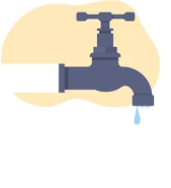
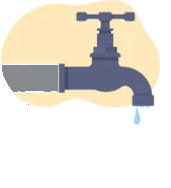
Correcciones graficas

Changed region(s): [[0.0, 0.3457, 0.3509, 0.5053]]

diff --git a/static/tank_animation4.js b/static/tank_animation4.js
@@ -21,7 +21,27 @@ document.addEventListener('DOMContentLoaded', function() {
                 if (item.id === "img3") item.visible = "1";
                 if (item.id === "img4") item.visible = "0";
             });
+            items = currentData.annotations.groups.find(g => g.id === "upperimageGroup").items;
+            items.forEach(item => {
+                if (item.id === "img1") item.visible = "1";
+                if (item.id === "img2") item.visible = "0";
+                if (item.id === "img3") item.visible = "1";
+                if (item.id === "img4") item.visible = "0";
+            });
+
             chartObj.setJSONData(currentData);
+        }       
+        else if (event.data.type === "Overload") {
+            items = currentData.annotations.groups.find(g => g.id === "upperimageGroup").items;
+            items.forEach(item => {
+                if (item.id === "img5") item.visible = "1";
+            });
+        }
+        else if (event.data.type === "OverloadOFF") {
+            items = currentData.annotations.groups.find(g => g.id === "upperimageGroup").items;
+            items.forEach(item => {
+                if (item.id === "img5") item.visible = "0";
+            });
         }
       });
     
@@ -71,38 +91,12 @@ document.addEventListener('DOMContentLoaded', function() {
                         origw: "350",
                         origh: "500", // Actualizado para coincidir con el nuevo alto
                         autoscale: "1",
-                        showBelow: "1", // Las anotaciones no están limitadas por el borde superior
                         constrainedScale: "0", // Permite que las anotaciones excedan los límites del gráfico
                         groups: [
                             {
                                 id: "imageGroup",
+                                showBelow: "1",
                                 items: [
-                                    {
-                                        name: "img1",
-                                        id: "img1",
-                                        type: "image",
-                                        url: "canillaON.png",
-                                        x: "0",
-                                        y: "0", 
-                                        xScale: "55",
-                                        yScale: "60",
-                                        zIndex: "5", // Valor bajo para colocarlo debajo de otros elementos
-                                        allowOverflow: "1", // Permite que la imagen se desborde
-                                        visible: "0" // 0 para ocultar, 1 para mostrar inicialmente
-                                    },
-                                    {
-                                        name: "img2",
-                                        id: "img2",
-                                        type: "image",
-                                        url: "canillaOFF.png",
-                                        x: "0",
-                                        y: "0",
-                                        xScale: "55",
-                                        yScale: "60",
-                                        zIndex: "5",
-                                        allowOverflow: "1",
-                                        visible: "1" // 0 para ocultar, 1 para mostrar inicialmente
-                                    },
                                     {
                                         id: "img3",
                                         type: "image",
@@ -139,10 +133,53 @@ document.addEventListener('DOMContentLoaded', function() {
                                         alpha: "100",
                                         dashed: "1",
                                         dashLen: "4",
-                                        dashGap: "2",
-                                        showBelow: "0"
+                                        dashGap: "2"
                                     }
                                 ]
+                            },
+                            {
+                                id: "upperimageGroup",
+                                showBelow: "0",
+                                allowOverflow: "1",
+                                items: [
+                                    {
+                                        name: "img1",
+                                        id: "img1",
+                                        type: "image",
+                                        url: "canillaON.png",
+                                        x: "0",
+                                        y: "0", 
+                                        xScale: "55",
+                                        yScale: "60",
+                                        zIndex: "5", // Valor bajo para colocarlo debajo de otros elementos
+                                        allowOverflow: "1", // Permite que la imagen se desborde
+                                        visible: "0" // 0 para ocultar, 1 para mostrar inicialmente
+                                    },
+                                    {
+                                        name: "img2",
+                                        id: "img2",
+                                        type: "image",
+                                        url: "canillaOFF.png",
+                                        x: "0",
+                                        y: "0",
+                                        xScale: "55",
+                                        yScale: "60",
+                                        zIndex: "5",
+                                        allowOverflow: "1",
+                                        visible: "1" // 0 para ocultar, 1 para mostrar inicialmente
+                                    },
+                                    {
+                                        id: "img5",
+                                        type: "image",
+                                        url: "desborde.png",
+                                        x: "-15",
+                                        y: "57",
+                                        xScale: "93",
+                                        yScale: "115",
+                                        zIndex: "4",
+                                        allowOverflow: "1",
+                                        visible: "0" // 0 para ocultar, 1 para mostrar inicialmente
+                                    }]
                             }
                         ]
                     }
@@ -158,6 +195,7 @@ document.addEventListener('DOMContentLoaded', function() {
                 console.error("El contenedor 'chart-container' no existe en el DOM");
             }
         });
+
     } else {
         console.error("El contenedor 'chart-container' no existe en el DOM al cargar la página");
     }

diff --git a/static/configuraciones.html b/static/configuraciones.html
@@ -226,18 +226,18 @@
                 const param2 = document.getElementById('system-param2').value;
                 const param3 = document.getElementById('system-param3').value;
                 const param4 = document.getElementById('system-param4').value;
-                alert(`Parámetros cambiados: \r h0 no repercute en el cambio ${param1},\r ${param2},\r ${param3},\r ${param4}`);
+                alert(`Parámetros cambiados: \r h0 no repercute en el cambio,\r C: ${param2},\r A: ${param3},\r Ref: ${param4}`);
                 // Enviar los parámetros al servidor
                 socket_conf.emit('changeparameter', {
-                   systemParam1: param1,
+                    systemParam1: param1,
                     systemParam2: param2,   
                     systemParam3: param3,
                     systemParam4: param4,
                 });
+                window.parent.change_ref(param4);
             } else {
                 alert('Por favor, corrija los errores antes de cambiar los parámetros.');
             }
-            window.parent.change_ref(systemParam4); 
         }
 
         function iniciarSimulacion(){

diff --git a/templates/indexSimulator.html b/templates/indexSimulator.html
@@ -55,7 +55,7 @@
 </head>
 
 <body>
-  <h2>Simulación de tanque de agua - Serial y reejecución implementado - Sin limite de la señal de control, (El que vea esto que pregunte a Juan) </h2>
+  <h2>Simulación de tanque de agua - Sigue dimensionando automaticamente el tanque - Rutina de overload - Salto del nivel al cambiar parametros - Sin limite de la señal de control</h2>
   <div class="container">
   
   <!-- Panel del tanque de animación -->
@@ -255,6 +255,7 @@
               borderWidth: 2,
               borderDash: [5, 5],
               fill: false,
+              stepped: true,
               tension: 0,
               pointRadius: 0, // No mostrar puntos, solo la línea
               spanGaps: true  // Conectar los puntos incluso si hay huecos

diff --git a/Simulacion2.py b/Simulacion2.py
@@ -45,13 +45,16 @@ def serve_canillason():
     return app.send_static_file('canillaON.png')
 @app.route('/canillaOFF.png')
 def serve_canillasoff():
-    return app.send_static_file('canillaOFF.png')
+    return app.send_static_file('canillaOFF.png') 
 @app.route('/salidaON.png')
 def serve_salidason():
     return app.send_static_file('salidaON.png')
 @app.route('/salidaOFF.png')
 def serve_salidasoff():
     return app.send_static_file('salidaOFF.png')
+@app.route('/desborde.png')
+def serve_desborde():
+    return app.send_static_file('desborde.png')
 
 
 # Ruta para enviar comandos al puerto serial
